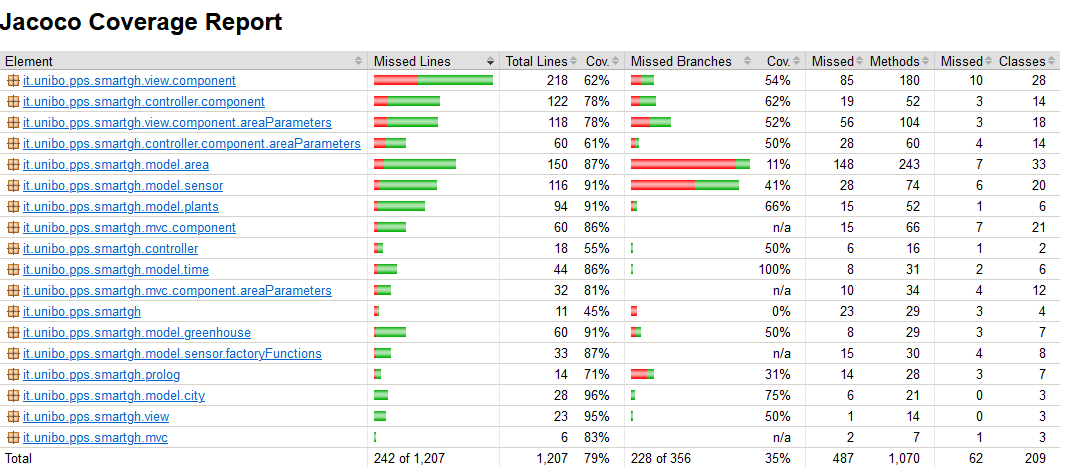
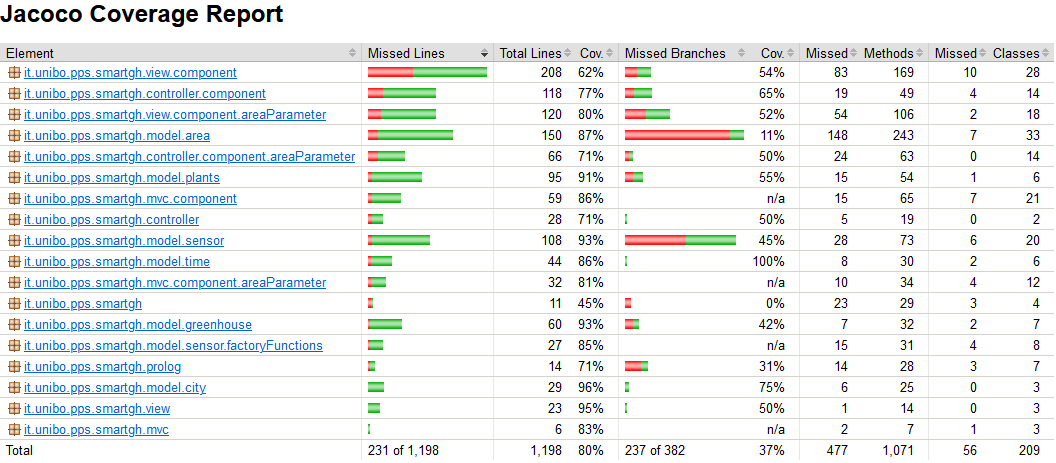
docs: update coverage

Changed region(s): [[0.0, 0.0, 1.0, 0.9978]]

diff --git a/docs/05_implementation.md b/docs/05_implementation.md
@@ -408,7 +408,7 @@ In particolare, per poter ottenere i risultati relativi alla _coverage_, si è f
 
 [Fig. 5.6.3.1]: img/coverage.png
 
-Come si può vedere dalla [Fig. 5.6.3.1], la coverage finale ottenuta è del 79% su un totale di 129 test effettuati.
+Come si può vedere dalla [Fig. 5.6.3.1], la coverage finale ottenuta è del 80% su un totale di 126 test effettuati.
 
 Gli elementi per cui si ha una _coverage_ più elevata sono quelli che fanno riferimento al Model dell'applicazione, mentre quelli per cui si ha una _coverage_ più bassa fanno riferimento agli elementi della View che, come spiegato nella precedente sezione [Sec. 5.6.2](#562-utilizzo-di-unit-test-e-testfx), sono stati testati sia tramite test automatici che tramite test manuali.
 
